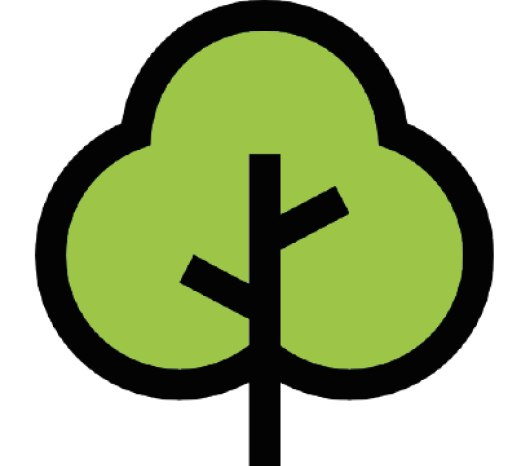
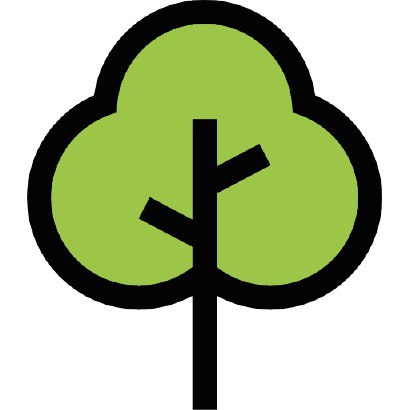
add myclub page

diff --git a/src/components/MyClub/MyClub.jsx b/src/components/MyClub/MyClub.jsx
@@ -1,0 +1,77 @@
+import './MyClub.css';
+import Button from '../../elements/Button/Button';
+import { Tab, Tabs, TabList, TabPanel } from 'react-tabs';
+import 'react-tabs/style/react-tabs.css';
+
+
+const MyClub = ({style}) => {
+    return(
+        <div    className='page-main-section myclub-container'
+                style={style}>
+            <div className='myclub-data-container'>
+                <div className='myclub-profile-container'>
+                    <div className='myclub-avatar'>
+                        
+                    </div>
+                    <div className='myclub-profile-data'>
+                        <div className='myclub-profile-data-item'>
+                            <p>Город:</p>
+                            <p className='myclub-data-value'>Караганда</p>
+                        </div>
+                        <div className='myclub-profile-data-item'>
+                            <p>Название:</p>
+                            <p className='myclub-data-value'>Эко-шахтеры</p>
+                        </div>
+                        <div className='myclub-profile-data-item'>
+                            <p>ID клуба</p>
+                            <p className='myclub-data-value'>abced45890</p>
+                        </div>
+                    </div>
+                </div>
+                <div className='myclub-profile-about'>
+                    <h2 className='underlined'>О клубе</h2>
+                    <p>
+                    Departure so attention pronounce satisfied daughters am. But shy tedious pressed studied opinion entered windows off. Advantage dependent suspicion convinced provision him yet. Timed balls match at by rooms we. Fat not boy neat left had with past here call. Court nay merit few nor party learn. Why our year her eyes know even how. Mr immediate remaining conveying allowance do or.
+                    </p>
+                </div>
+            </div>
+            
+            <div className='myclub-profile-buttons'>
+                <Button text={'Журнал'} style={{color:'white', fontWeight:'bold'}}/>
+                <Button text={'Написать обращение'} style={{color:'white', fontWeight:'bold'}}/>
+                
+            </div>
+
+            <div className='myclub-struct-container'>
+                <h2 className='underlined'>Структура клуба</h2>
+                                <Tabs style={{
+                                    marginTop:'30px'
+                                }}>
+                    <TabList>
+                    <Tab>Руководитель</Tab>
+                    <Tab>SMM-специалист</Tab>
+                    <Tab>Организатор</Tab>
+                    <Tab>Админы</Tab>
+                    <Tab>Участники</Tab>
+                    </TabList>
+
+                    <TabPanel>
+                        <div className='card'>
+                            <h3>Name name</h3>
+                            <p>Контакты:</p>
+                            <div className='contacts'>
+                                <p>email: ali@gmail.com</p>
+                                <p>phone: +7 700 000 00 00</p>
+                            </div>
+                        </div>
+                    </TabPanel>
+                    <TabPanel>
+                        <h2>Any content 2</h2>
+                    </TabPanel>
+                </Tabs>
+            </div>
+        </div>
+    )
+}
+
+export default MyClub;

diff --git a/src/components/MyClub/MyClub.css b/src/components/MyClub/MyClub.css
@@ -1,0 +1,89 @@
+.myclub-data-container {
+    height: auto;
+    min-width: 65%;
+    max-width: 65%;
+    width: auto;
+    display: flex;
+    justify-content: space-between;
+    margin-left: 20%;
+    margin-top: 50px;
+}
+
+.myclub-profile-container {
+    width: 60%;
+    height: 100%;
+    display: flex;
+}
+
+.myclub-profile-container .myclub-avatar {
+    position: relative;
+    border-radius: 50%;
+    border: 5px solid #9FCA3D;
+    height: 100%;
+    width: 65%;
+    background: url('https://avatars.mds.yandex.net/i?id=706bb13382495fbe327ff3d809d3239c-5221656-images-thumbs&n=13');
+    background-size: cover;
+    background-position: center;
+}
+
+.myclub-profile-container .myclub-profile-data {
+    height: 100%;
+    width: 90%;
+    border: 5px solid #9FCA3D;
+    margin-left: -150px;
+    border-top-right-radius: 50px;
+    border-bottom-right-radius: 50px;
+    display: flex;
+    flex-direction: column;
+    padding-left: 180px;
+    padding-top: 30px;
+}
+
+.myclub-profile-data .myclub-profile-data-item {
+    display: flex;
+    flex-direction: column;
+    width: 100%;
+    height: 20%;
+    margin-top: 20px;
+}
+
+.myclub-profile-data-item p {
+    font-size: 20px;
+}
+
+.myclub-data-value {
+    font-weight: bold;
+    color: #75a20b;
+}
+
+.myclub-profile-about {
+    height: 100%;
+    width: 40%;
+    margin-left: 20px;
+    padding: 25px;
+    display: flex;
+    flex-direction: column;
+    justify-content: space-between;
+}
+
+.underlined {
+    border-bottom: 3px solid #9FCA3D;
+    padding-bottom: 10px;
+    width: 30%;
+    margin-bottom: 10px;
+}
+
+.myclub-profile-buttons {
+    width: 25%;
+    margin-left: 32%;
+    display: flex;
+    justify-content: space-between;
+    margin-top: 20px;
+}
+
+.myclub-struct-container {
+    width: 60%;
+    margin-left: 20%;
+    margin-top: 50px;
+    padding: 20px;
+}

diff --git a/src/components/Main/Main.jsx b/src/components/Main/Main.jsx
@@ -25,13 +25,13 @@ const Main = () => {
                <AuthPage/>
                <Footer/>
             </div>
-            <img src={require('../../media/manytreeline.jpg')}
+            <img src={require('../../media/onetree.jpg')}
                  alt="side trees"
                  style={{
                     position:'fixed',
                     bottom:"10px",
                     right:'15px',
-                    height:'20%',
+                    height:'25%',
                     width:'13%'
                  }}
                  />

diff --git a/src/App.js b/src/App.js
@@ -8,6 +8,7 @@ import {
   Routes,
   Route,
 } from "react-router-dom";
+import MyClub from './components/MyClub/MyClub';
 
 
 function App() {
@@ -17,7 +18,7 @@ function App() {
       <Navbar/>
         <Routes>
           <Route path='/' element={<Main/>}/>
-          <Route path='/myclub' element={<Main/>}/>
+          <Route path='/myclub' element={<MyClub/>}/>
         </Routes>
       </BrowserRouter>
     </div>

diff --git a/src/components/Navbar/Navbar.css b/src/components/Navbar/Navbar.css
@@ -1,5 +1,7 @@
 .navbar-wrapper {
     position: fixed;
+    top: 0;
+    left: 0;
     z-index: 111111;
     height: 80px;
     min-height: 80px;
@@ -52,11 +54,14 @@
     display: flex;
     align-items: center;
     justify-content: center;
-    transition: 0.2s ease-in;
+    transition: 0.15s ease-in;
 }
 
 .navbar-item:hover {
     background: #79ad54;
+}
+
+.navbar-item:hover a {
     color: white;
 }
 
